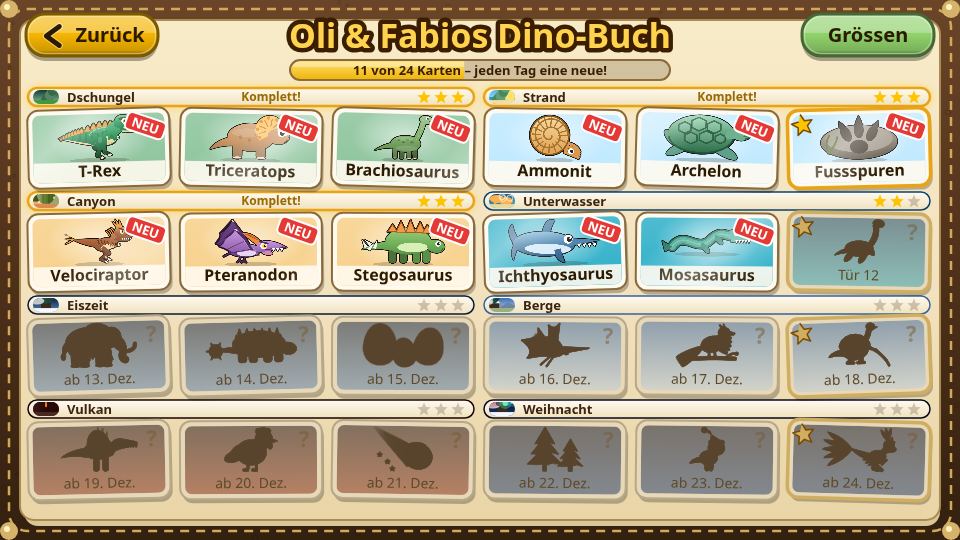
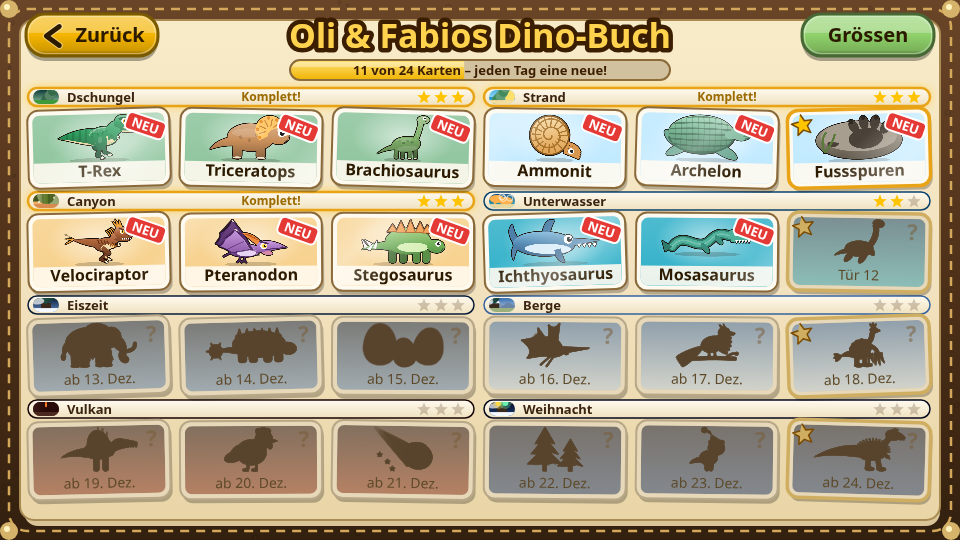
Dino-Buch: anatomically corrected card art and a voice for every card
- Redraw Therizinosaurus (upright, arms hanging with claws pointing down)
  and Sinosauropteryx (ginger fuzz, ringed tail)
- Fix T-Rex (no back plates), Brachiosaurus (longer front legs),
  Archelon (leathery ribbed shell), Pteranodon (no teeth), Fussspuren
  (sauropod print)
- Tapping a picture plays that card's own synthesised voice or sound
  (24 voices, added to the audio audit)

diff --git a/game.js b/game.js
@@ -167,7 +167,35 @@ const SFX = {
   fire() { noise(0.35, 0.3, 1600); tone(200, 0.3, 'sawtooth', 0.06, 90); },
   duck() { tone(420, 0.08, 'triangle', 0.06, 260); },
   power() { [523, 659, 784, 1047, 1319].forEach((f, i) => tone(f, 0.18, 'square', 0.05, null, i * 0.06)); },
+  voice(kind) { (VOICES[kind] || VOICES.rex)(); }, // the Dino-Buch: tap a picture and the animal answers in its own voice
 };
+const VOICES = { // every card has its own synthesised voice (or sound for things that are not animals)
+  rex() { duck(0.4, 0.45); noise(0.8, 0.4, 420); tone(95, 0.85, 'sawtooth', 0.15, 48, 0, { lp: 650, lpTo: 150, vib: 1 }); tone(140, 0.6, 'sawtooth', 0.08, 70, 0.05, { lp: 900 }); },
+  spino() { duck(0.5, 0.4); noise(0.7, 0.26, 2200, 0, 'bandpass'); tone(150, 0.7, 'sawtooth', 0.12, 85, 0, { lp: 1500, lpTo: 300 }); tone(210, 0.35, 'sawtooth', 0.07, 120, 0.4, { lp: 1800 }); },
+  trike() { tone(190, 0.55, 'sawtooth', 0.13, 135, 0, { lp: 900, vib: 1 }); tone(95, 0.55, 'triangle', 0.11, 78); tone(175, 0.5, 'sawtooth', 0.12, 120, 0.4, { lp: 800, vib: 1 }); tone(88, 0.5, 'triangle', 0.1, 70, 0.4); },
+  sauro() { tone(70, 1.5, 'sine', 0.1, 112, 0, { vib: 1, att: 0.25 }); tone(140, 1.3, 'triangle', 0.045, 100, 0.1, { vib: 1, lp: 520, att: 0.25 }); tone(210, 1.1, 'sine', 0.02, 150, 0.2, { att: 0.3 }); tone(112, 0.7, 'sine', 0.08, 60, 1.0); },
+  raptor() { for (let i = 0; i < 3; i++) tone(900 + i * 170, 0.1, 'square', 0.055, 1700 + i * 170, i * 0.11, { lp: 3600 }); noise(0.35, 0.12, 4800, 0, 'highpass'); tone(1300, 0.28, 'sawtooth', 0.05, 700, 0.38, { lp: 3000 }); },
+  ptero() { tone(1100, 0.38, 'sawtooth', 0.075, 2500, 0, { lp: 4200, vib: 1 }); tone(1500, 0.3, 'sawtooth', 0.04, 3000, 0.04); tone(1250, 0.26, 'sawtooth', 0.06, 2200, 0.46, { lp: 4000 }); noise(0.15, 0.08, 5000, 0.02, 'highpass'); },
+  quetz() { duck(0.6, 0.3); tone(560, 0.7, 'sawtooth', 0.1, 1500, 0, { lp: 2600, vib: 1 }); tone(280, 0.7, 'sawtooth', 0.06, 700, 0, { lp: 1500 }); noise(0.4, 0.14, 3000, 0.05, 'bandpass'); tone(900, 0.3, 'sawtooth', 0.06, 500, 0.7, { lp: 2400 }); },
+  stego() { tone(85, 0.26, 'square', 0.12, 55, 0, { lp: 320 }); noise(0.2, 0.22, 520); tone(78, 0.28, 'square', 0.11, 50, 0.34, { lp: 300 }); noise(0.22, 0.2, 480, 0.34); },
+  mammoth() { duck(0.55, 0.5); tone(380, 0.95, 'sawtooth', 0.12, 640, 0, { att: 0.07, lp: 2300, vib: 1 }); tone(380, 0.95, 'square', 0.04, 640, 0, { lp: 1500 }); noise(0.5, 0.12, 1300); tone(520, 0.45, 'sawtooth', 0.1, 300, 0.75, { lp: 2000 }); },
+  anky() { noise(0.28, 0.32, 760); tone(100, 0.22, 'sine', 0.15, 58); tone(70, 0.28, 'square', 0.13, 38, 0.4); noise(0.22, 0.3, 320, 0.4); for (let i = 0; i < 4; i++) noise(0.03, 0.12, 3800, 0.62 + i * 0.05, 'highpass'); },
+  ichthyo() { tone(2200, 0.26, 'sine', 0.07, 3300); tone(3100, 0.22, 'sine', 0.06, 2000, 0.28); for (let i = 0; i < 5; i++) noise(0.015, 0.13, 4600, 0.58 + i * 0.05, 'highpass'); },
+  mosa() { duck(0.6, 0.3); tone(75, 0.75, 'sawtooth', 0.12, 52, 0, { lp: 320, vib: 1 }); noise(0.5, 0.2, 420); for (let i = 0; i < 4; i++) { const f = 300 + (i * 190) % 400; tone(f, 0.08, 'sine', 0.07, f * 1.8, 0.35 + i * 0.07); } },
+  plesio() { tone(260, 1.15, 'sine', 0.08, 430, 0, { vib: 1, att: 0.15 }); tone(410, 0.95, 'sine', 0.06, 230, 0.22, { att: 0.1, vib: 1 }); for (let i = 0; i < 3; i++) { const f = 500 + i * 180; tone(f, 0.07, 'sine', 0.06, f * 1.8, 0.9 + i * 0.06); } },
+  archelon() { noise(0.55, 0.2, 950); tone(130, 0.5, 'triangle', 0.1, 95, 0.05, { lp: 520 }); noise(0.4, 0.14, 700, 0.5); tone(110, 0.3, 'triangle', 0.09, 80, 0.55, { lp: 400 }); },
+  ammonite() { for (let i = 0; i < 6; i++) { const f = 450 + (i * 173) % 500; tone(f, 0.07, 'sine', 0.07, f * 1.8, i * 0.07); } tone(300, 0.06, 'square', 0.06, 150, 0.55); tone(260, 0.06, 'square', 0.06, 130, 0.65); },
+  archaeo() { for (let i = 0; i < 4; i++) tone(2300 + i * 120, 0.07, 'sine', 0.075, 3500, i * 0.11); noise(0.2, 0.07, 6000, 0.5, 'highpass'); tone(1900, 0.2, 'sawtooth', 0.04, 1500, 0.5, { lp: 3000 }); },
+  theriz() { tone(150, 0.75, 'triangle', 0.13, 104, 0, { vib: 1, lp: 720 }); tone(110, 0.55, 'sawtooth', 0.07, 78, 0.15, { lp: 420 }); for (let i = 0; i < 3; i++) noise(0.025, 0.2, 4200, 0.75 + i * 0.09, 'highpass'); },
+  chicken() { for (let i = 0; i < 3; i++) { tone(540 - i * 40, 0.09, 'square', 0.07, 380, i * 0.15, { lp: 1900 }); noise(0.04, 0.06, 2000, i * 0.15, 'highpass'); } tone(430, 0.34, 'sawtooth', 0.08, 780, 0.55, { lp: 2300, vib: 1 }); },
+  polar() { tone(540, 0.3, 'sawtooth', 0.09, 300, 0, { lp: 2100 }); tone(800, 0.2, 'triangle', 0.05, 420, 0.04); tone(480, 0.2, 'sawtooth', 0.08, 280, 0.34, { lp: 1900 }); },
+  feather() { for (let i = 0; i < 6; i++) tone(1900 + (i % 2) * 450, 0.05, 'sine', 0.065, 2700, i * 0.065); noise(0.3, 0.09, 6500, 0, 'highpass'); },
+  steps() { for (let i = 0; i < 3; i++) { tone(95, 0.24, 'sine', 0.22, 42, i * 0.34); noise(0.2, 0.32, 270, i * 0.34); } },
+  eggs() { noise(0.05, 0.3, 3600, 0, 'highpass'); tone(900, 0.07, 'triangle', 0.09, 500); noise(0.05, 0.3, 3600, 0.22, 'highpass'); tone(840, 0.07, 'triangle', 0.09, 460, 0.22); tone(1500, 0.14, 'sine', 0.1, 2300, 0.6); tone(1700, 0.12, 'sine', 0.08, 2500, 0.78); },
+  meteor() { noise(0.7, 0.2, 3200); tone(900, 0.6, 'sawtooth', 0.04, 120, 0, { lp: 2600 }); duck(0.4, 0.7); tone(70, 0.7, 'sine', 0.2, 28, 0.58); noise(0.55, 0.26, 300, 0.58); },
+  trees() { noise(1.0, 0.15, 900); noise(1.0, 0.1, 1700, 0.15); tone(160, 0.5, 'triangle', 0.05, 140, 0.1, { lp: 400 }); [1568, 1976, 2349, 1976].forEach((f, i) => tone(f, 0.3, 'sine', 0.05, null, 0.5 + i * 0.1)); },
+};
+const VOICE_OF = ['rex', 'trike', 'sauro', 'ammonite', 'archelon', 'steps', 'raptor', 'ptero', 'stego', 'ichthyo', 'mosa', 'plesio', 'mammoth', 'anky', 'eggs', 'quetz', 'archaeo', 'theriz', 'spino', 'chicken', 'meteor', 'trees', 'polar', 'feather']; // FACTS order
 function fanNotes(root, seq) { // [semitones, start, length = 0.2]: a bright brass-like fanfare
   for (const [n, t, len = 0.2] of seq) { tone(root * 2 * Math.pow(2, n / 12), len, 'square', 0.04, null, t); tone(root * Math.pow(2, n / 12), len, 'triangle', 0.08, null, t); }
 }
@@ -1014,7 +1042,7 @@ function drawRex(x, y, s, ph, jaw, o = {}) {
   // dorsal plates: amber rounded fins that follow the spine
   ctx.fillStyle = plate; ctx.strokeStyle = shade(plate, 0.6); ctx.lineWidth = 1.5;
   const bz = t => { const u = 1 - t; return [u * u * u * -14 + 3 * u * u * t * -60 + 3 * u * t * t * -100 + t * t * t * -132, u * u * u * -90 + 3 * u * u * t * -92 + 3 * u * t * t * -80 + t * t * t * (-58 + tw)]; };
-  [[30, -101, 8], [14, -99, 9.5], [-4, -96, 10.5], [-22, -92, 10], [-40, -87, 9], ...[[0.34, 8], [0.42, 7.4], [0.5, 6.8], [0.58, 6.1], [0.66, 5.4], [0.74, 4.7], [0.82, 4], [0.9, 3.2]].map(([t, z]) => { const [qx, qy] = bz(t); return [qx, qy + 5.5, z, true]; })].forEach(([px, py, sz, tl], i) => { const ty = py + (tl ? 0 : px < -50 ? tw * 0.4 : 0) + Math.sin(ph * 0.5 - 0.5 + i * 0.4) * 0.8; ctx.beginPath(); ctx.moveTo(px - sz * 0.9, ty + 5); ctx.quadraticCurveTo(px - sz * 0.5, ty - sz * 1.2, px + sz * 0.2, ty - sz * 1.45); ctx.quadraticCurveTo(px + sz * 0.8, ty - sz * 0.6, px + sz * 0.9, ty + 5); ctx.closePath(); ctx.fill(); ctx.stroke(); });
+  (o.noPlates ? [] : [[30, -101, 8], [14, -99, 9.5], [-4, -96, 10.5], [-22, -92, 10], [-40, -87, 9], ...[[0.34, 8], [0.42, 7.4], [0.5, 6.8], [0.58, 6.1], [0.66, 5.4], [0.74, 4.7], [0.82, 4], [0.9, 3.2]].map(([t, z]) => { const [qx, qy] = bz(t); return [qx, qy + 5.5, z, true]; })]).forEach(([px, py, sz, tl], i) => { const ty = py + (tl ? 0 : px < -50 ? tw * 0.4 : 0) + Math.sin(ph * 0.5 - 0.5 + i * 0.4) * 0.8; ctx.beginPath(); ctx.moveTo(px - sz * 0.9, ty + 5); ctx.quadraticCurveTo(px - sz * 0.5, ty - sz * 1.2, px + sz * 0.2, ty - sz * 1.45); ctx.quadraticCurveTo(px + sz * 0.8, ty - sz * 0.6, px + sz * 0.9, ty + 5); ctx.closePath(); ctx.fill(); ctx.stroke(); });
   // torso + chest + belly
   ell(4, -66, 46, 29, -0.18, body);
   ell(24, -68, 28, 28, 0, body);
@@ -1154,7 +1182,7 @@ function drawPtero(x, y, s, ph, flip, o = {}) {
   ell(33, 3.4, 8, 3.2, 0.15, '#d98aa8');
   ctx.fillStyle = vgrad(-14, 4, light, mid); ctx.beginPath(); ctx.moveTo(18, -9); ctx.bezierCurveTo(26, -17, 44, -15, 62, -4); ctx.bezierCurveTo(46, -2, 32, 3, 18, 2); ctx.closePath(); ctx.fill();
   ctx.strokeStyle = dark; ctx.lineWidth = 1.4; ctx.beginPath(); ctx.moveTo(30, -1); ctx.quadraticCurveTo(46, -3, 60, -4); ctx.stroke();
-  ctx.fillStyle = '#fff'; for (let i = 0; i < 3; i++) { ctx.beginPath(); ctx.moveTo(40 + i * 6, -3); ctx.lineTo(42.4 + i * 6, 1.4); ctx.lineTo(44.8 + i * 6, -3.2); ctx.fill(); }
+  if (!o.noTeeth) { ctx.fillStyle = '#fff'; for (let i = 0; i < 3; i++) { ctx.beginPath(); ctx.moveTo(40 + i * 6, -3); ctx.lineTo(42.4 + i * 6, 1.4); ctx.lineTo(44.8 + i * 6, -3.2); ctx.fill(); } }
   circle(28, -6.5, 4.8, '#fff'); circle(29, -6.5, 3.4, '#ffd23a'); circle(29.8, -6.4, 1.8, '#17100a'); circle(30.2, -7.6, 0.8, '#fff');
   ctx.strokeStyle = dark; ctx.lineWidth = 2.4; ctx.beginPath(); ctx.moveTo(22, -13); ctx.lineTo(34, -10); ctx.stroke();
   ctx.strokeStyle = 'rgba(150,50,10,.55)'; ctx.lineWidth = 1.2; ctx.beginPath(); for (let i = 0; i < 3; i++) { ctx.moveTo(20 - i * 5, -15 - i * 3.4); ctx.lineTo(8 - i * 3, -21 - i * 1.4); } ctx.stroke(); circle(55, -6, 0.9, 'rgba(0,0,0,.45)');
@@ -1253,11 +1281,12 @@ function drawChili(x, y, s, ph, flip) {
   ctx.strokeStyle = 'rgba(255,245,235,.85)'; ctx.lineWidth = 0.8; ctx.beginPath(); ctx.moveTo(26, -20); ctx.lineTo(37, -24); ctx.moveTo(26, -20); ctx.lineTo(38, -19); ctx.moveTo(26, -19); ctx.lineTo(36, -14); ctx.stroke();
   ctx.restore();
 }
-function drawLongneck(x, y, s, c0, ph, flip) {
+function drawLongneck(x, y, s, c0, ph, flip, o = {}) {
   ctx.save(); ctx.translate(x, y); ctx.scale(flip ? -s : s, s);
   const col = vgrad(-160, 0, shade(c0, 1.3), c0, shade(c0, 0.68));
   const dark = 'rgba(0,0,0,.22)';
-  for (const lx of [-38, -14, 14, 36]) { rr(lx - 7, -45, 15, 45, 6); ctx.fillStyle = col; ctx.fill(); rr(lx - 7, -45, 15, 45, 6); ctx.fillStyle = (lx === -14 || lx === 36) ? dark : 'rgba(0,0,0,0)'; ctx.fill(); }
+  for (const lx of [-38, -14, 14, 36]) { const ext = o.tall && lx > 0 ? 14 : 0; rr(lx - 7, -45 - ext, 15, 45 + ext, 6); ctx.fillStyle = col; ctx.fill(); rr(lx - 7, -45 - ext, 15, 45 + ext, 6); ctx.fillStyle = (lx === -14 || lx === 36) ? dark : 'rgba(0,0,0,0)'; ctx.fill(); }
+  if (o.tall) { ctx.save(); ctx.translate(-8, -52); ctx.rotate(-0.1); ctx.translate(8, 52); } // front legs longer than the hind legs: the back slopes down to the tail
   ctx.fillStyle = col; ctx.beginPath(); ctx.moveTo(-45, -60); ctx.quadraticCurveTo(-90, -50, -115, -28); ctx.quadraticCurveTo(-80, -40, -45, -40); ctx.fill();
   ell(0, -56, 55, 30, 0, col);
   ctx.strokeStyle = col; ctx.lineWidth = 20; ctx.lineCap = 'round'; ctx.beginPath(); ctx.moveTo(35, -66); ctx.quadraticCurveTo(58, -110, 62 + Math.sin(ph) * 3, -140); ctx.stroke();
@@ -1269,6 +1298,7 @@ function drawLongneck(x, y, s, c0, ph, flip) {
   circle(79.6 + Math.sin(ph) * 3, -153, 1.5, '#fff'); ell(84 + Math.sin(ph) * 3, -142, 4, 2, 0, 'rgba(255,120,140,.4)');
   circle(90 + Math.sin(ph) * 3, -149, 1.3, 'rgba(0,0,0,.45)'); ctx.strokeStyle = 'rgba(0,0,0,.35)'; ctx.lineWidth = 1.6; ctx.beginPath(); ctx.moveTo(74 + Math.sin(ph) * 3, -159); ctx.quadraticCurveTo(79 + Math.sin(ph) * 3, -161.5, 83 + Math.sin(ph) * 3, -158.5); ctx.stroke();
   ctx.fillStyle = 'rgba(255,255,255,.3)'; for (let i = 0; i < 6; i++) { const u = i / 5; circle(38 + (62 - 38) * u + Math.sin(u * 3) * 6, -72 - 70 * u, 2.2 - u * 0.5, ctx.fillStyle); }
+  if (o.tall) ctx.restore();
   ctx.fillStyle = '#efe6d2'; for (const lx of [-38, -14, 14, 36]) { ctx.beginPath(); ctx.ellipse(lx, -2, 6, 2.6, 0, Math.PI, 0); ctx.fill(); }
   ctx.restore();
 }
@@ -5238,14 +5268,20 @@ function drawMeteor(x, y, s) {
   for (const [dx, dy] of [[-60, -20], [-76, -34], [-50, -6]]) drawStar(dx, dy, 6, '#ffd34d');
   ctx.restore();
 }
-function drawFeathered(x, y, s) { // a small feathered dinosaur: tail fan, wing feathers on the arm and a crest
-  ctx.save(); ctx.translate(x, y); ctx.scale(s * 1.7, s * 1.7); ctx.translate(-4, 0); ctx.lineCap = 'round';
-  const cols = ['#3fa9f5', '#f2a43a', '#e84a6f', '#f2d03a', '#6bd16b'];
-  const fea = (px, py, an, len, wd, c) => { ctx.save(); ctx.translate(px, py); ctx.rotate(an); ctx.fillStyle = vgrad(-wd, wd, shade(c, 1.25), c); ctx.beginPath(); ctx.moveTo(0, 0); ctx.quadraticCurveTo(len * 0.5, -wd, len, 0); ctx.quadraticCurveTo(len * 0.5, wd, 0, 0); ctx.fill(); ctx.strokeStyle = 'rgba(0,0,0,.3)'; ctx.lineWidth = 1; ctx.beginPath(); ctx.moveTo(2, 0); ctx.lineTo(len * 0.92, 0); ctx.stroke(); ctx.restore(); };
-  for (let i = 0; i < 5; i++) fea(-38, -31, Math.PI - 0.62 + i * 0.3, 46, 8, cols[i]); // tail fan
-  drawCompy(0, 0, 1, 0.4, false, { tone: ['#8aeed0', '#3fb59a', '#1f7a66', '#0f4a3e'] });
-  for (let i = 0; i < 5; i++) fea(9, -23, Math.PI - 0.05 - i * 0.2, 34 - i * 2, 6, cols[(i + 2) % 5]); // wing feathers
-  for (let i = 0; i < 3; i++) fea(16, -45, -2.15 + i * 0.4, 20, 4.5, cols[(i * 2) % 5]); // crest
+function drawFeathered(x, y, s) { // Sinosauropteryx: ginger fuzz all over, pale belly, very long tail with dark rings, short arms
+  ctx.save(); ctx.translate(x, y); ctx.scale(s * 1.45, s * 1.45); ctx.lineCap = 'round'; ctx.lineJoin = 'round';
+  const fur = vgrad(-60, 0, '#f0a550', '#d9822b', '#9a5416'), ring = '#fbead0';
+  ctx.strokeStyle = '#7a4412'; ctx.lineWidth = 8; ctx.beginPath(); ctx.moveTo(-6, -22); ctx.lineTo(-8, -4); ctx.moveTo(10, -22); ctx.lineTo(13, -4); ctx.stroke();
+  for (const fx of [-8, 13]) { ell(fx + 4, -2, 8, 3.4, 0, '#6a3a10'); }
+  const tail = new Path2D(); tail.moveTo(-14, -42); tail.bezierCurveTo(-44, -46, -76, -38, -104, -20); tail.bezierCurveTo(-76, -28, -44, -24, -14, -22); tail.closePath(); // long tail
+  ctx.fillStyle = fur; ctx.fill(tail); ctx.save(); ctx.clip(tail); ctx.fillStyle = ring; for (let i = 0; i < 8; i++) { ctx.beginPath(); ctx.moveTo(-26 - i * 10.5, -60); ctx.lineTo(-20 - i * 10.5, -60); ctx.lineTo(-14 - i * 10.5, -10); ctx.lineTo(-20 - i * 10.5, -10); ctx.fill(); } ctx.restore();
+  ell(0, -34, 26, 17, -0.15, fur); ell(7, -28, 18, 8.5, -0.1, '#fbead0');
+  ctx.strokeStyle = '#f3b970'; ctx.lineWidth = 1.8; for (let i = 0; i < 16; i++) { const a = -2.9 + i * 0.2, ex = Math.cos(a) * 25, ey = -34 + Math.sin(a) * 16; ctx.beginPath(); ctx.moveTo(ex, ey); ctx.lineTo(ex + Math.cos(a - 0.3) * 6, ey + Math.sin(a - 0.3) * 6); ctx.stroke(); } // fuzz
+  ctx.strokeStyle = '#d9822b'; ctx.lineWidth = 9; ctx.beginPath(); ctx.moveTo(18, -42); ctx.quadraticCurveTo(26, -52, 30, -60); ctx.stroke();
+  ell(36, -63, 13, 9, 0.18, fur); ctx.fillStyle = '#d9822b'; ctx.beginPath(); ctx.moveTo(44, -69); ctx.quadraticCurveTo(56, -64, 58, -58); ctx.lineTo(44, -56); ctx.fill();
+  ctx.fillStyle = '#fff'; for (let i = 0; i < 3; i++) { ctx.beginPath(); ctx.moveTo(47 + i * 3.4, -57.6); ctx.lineTo(48.6 + i * 3.4, -54); ctx.lineTo(50.2 + i * 3.4, -57.4); ctx.fill(); }
+  circle(40, -66, 4.4, '#fff'); circle(41, -66, 2.6, '#222'); circle(41.8, -67, 0.9, '#fff'); ctx.strokeStyle = '#7a4412'; ctx.lineWidth = 1.6; ctx.beginPath(); ctx.moveTo(35, -72); ctx.quadraticCurveTo(40, -75, 45, -72); ctx.stroke();
+  ctx.strokeStyle = '#a85e1a'; ctx.lineWidth = 5; ctx.beginPath(); ctx.moveTo(18, -34); ctx.lineTo(27, -24); ctx.stroke(); ctx.strokeStyle = '#fbead0'; ctx.lineWidth = 1.6; ctx.beginPath(); ctx.moveTo(27, -24); ctx.lineTo(31, -21); ctx.moveTo(27, -24); ctx.lineTo(30, -26); ctx.stroke(); // short arm
   ctx.restore();
 }
 function drawAmmonite(x, y, s) {
@@ -5260,20 +5296,23 @@ function drawArchelon(x, y, s) {
   ctx.save(); ctx.translate(x, y); ctx.scale(s, s); ctx.lineJoin = 'round';
   ctx.fillStyle = '#5fa08a'; ctx.beginPath(); ctx.ellipse(-34, -9, 22, 7, -0.45, 0, 7); ctx.fill(); ctx.beginPath(); ctx.ellipse(34, -8, 26, 8, 0.5, 0, 7); ctx.fill(); ctx.beginPath(); ctx.ellipse(-48, -26, 14, 6, 0.9, 0, 7); ctx.fill(); // flippers
   ell(0, -32, 52, 30, 0, vgrad(-62, -2, '#a0d8b8', '#5aa078', '#2f6a4a'));
-  ctx.strokeStyle = 'rgba(20,60,40,.6)'; ctx.lineWidth = 2.4; ctx.fillStyle = 'rgba(255,255,255,.12)';
-  const hex = (cx, cy, r) => { ctx.beginPath(); for (let k = 0; k < 6; k++) { const a = k / 6 * Math.PI * 2 + 0.52; ctx.lineTo(cx + Math.cos(a) * r, cy + Math.sin(a) * r * 0.82); } ctx.closePath(); ctx.fill(); ctx.stroke(); };
-  for (const [px, py, r] of [[-26, -42, 11], [-4, -48, 13], [20, -44, 12], [-16, -26, 11], [8, -28, 12], [30, -26, 9]]) hex(px, py, r); // scutes
+  ctx.save(); ctx.beginPath(); ctx.ellipse(0, -32, 51, 29, 0, 0, 7); ctx.clip(); // leathery shell: seven long ridges and fine cross ribs, no hard plates
+  ctx.strokeStyle = 'rgba(20,60,40,.55)'; ctx.lineWidth = 2.6; for (let k = -3; k <= 3; k++) { ctx.beginPath(); ctx.moveTo(-50, -32 + k * 7.5); ctx.quadraticCurveTo(0, -32 + k * 11, 50, -32 + k * 7.5); ctx.stroke(); }
+  ctx.strokeStyle = 'rgba(20,60,40,.28)'; ctx.lineWidth = 1.4; for (let u = -42; u <= 42; u += 9) { ctx.beginPath(); ctx.moveTo(u, -62); ctx.quadraticCurveTo(u + 3, -32, u, -2); ctx.stroke(); }
+  ctx.restore();
   ctx.strokeStyle = 'rgba(30,80,56,.8)'; ctx.lineWidth = 3; ctx.beginPath(); ctx.ellipse(0, -30, 51, 27, 0, 0.1, Math.PI - 0.1); ctx.stroke(); // rim
   ctx.strokeStyle = '#6fb090'; ctx.lineWidth = 13; ctx.lineCap = 'round'; ctx.beginPath(); ctx.moveTo(44, -32); ctx.lineTo(56, -34); ctx.stroke();
   ell(62, -36, 16, 12, 0.05, '#6fb090'); ctx.fillStyle = '#3d7a5c'; ctx.beginPath(); ctx.moveTo(70, -40); ctx.quadraticCurveTo(82, -36, 76, -29); ctx.lineTo(66, -30); ctx.fill();
   circle(64, -41, 5, '#fff'); circle(65, -41, 2.8, '#222'); circle(65.8, -42, 1, '#fff'); ctx.strokeStyle = '#2f6a4a'; ctx.lineWidth = 2; ctx.beginPath(); ctx.arc(70, -32, 5, 0.2, 1.6); ctx.stroke();
   ctx.restore();
 }
-function drawFootprint(x, y, s) {
+function drawFootprint(x, y, s) { // a sauropod track: big round hind foot with blunt toe pads, small crescent front foot
   ctx.save(); ctx.translate(x, y); ctx.scale(s, s);
   ell(0, -22, 50, 22, 0, vgrad(-44, 0, '#b0a698', '#8a8070', '#5e564a')); ell(0, -26, 44, 17, 0, '#a89e90');
-  ctx.fillStyle = '#4a4238'; for (const [tx, ty, an] of [[-17, -33, -0.5], [0, -38, 0], [17, -33, 0.5]]) { ctx.save(); ctx.translate(tx, ty); ctx.rotate(an); ctx.beginPath(); ctx.ellipse(0, 0, 6.5, 11, 0, 0, 7); ctx.fill(); ctx.beginPath(); ctx.moveTo(-4, -10); ctx.lineTo(0, -19); ctx.lineTo(4, -10); ctx.fill(); ctx.restore(); }
-  ctx.beginPath(); ctx.ellipse(0, -16, 12, 9, 0, 0, 7); ctx.fill(); ctx.strokeStyle = '#5a7a3a'; ctx.lineWidth = 2.5; ctx.beginPath(); ctx.moveTo(-40, -8); ctx.quadraticCurveTo(-46, -22, -38, -32); ctx.moveTo(-40, -8); ctx.quadraticCurveTo(-30, -20, -28, -30); ctx.stroke();
+  ctx.fillStyle = '#4a4238'; ell(8, -24, 20, 12, -0.1, '#4a4238');
+  for (const [tx, ty, an] of [[-12, -38, -0.5], [0, -42, -0.15], [13, -42, 0.2], [25, -36, 0.65]]) { ctx.save(); ctx.translate(tx + 6, ty); ctx.rotate(an); ctx.beginPath(); ctx.ellipse(0, 0, 5.4, 8, 0, 0, 7); ctx.fill(); ctx.fillStyle = '#2e2820'; ctx.beginPath(); ctx.ellipse(0, -6, 2.6, 2.6, 0, 0, 7); ctx.fill(); ctx.fillStyle = '#4a4238'; ctx.restore(); }
+  ctx.beginPath(); ctx.ellipse(-30, -19, 7, 4.6, -0.2, 0.2, Math.PI * 1.2); ctx.fill();
+  ctx.strokeStyle = '#5a7a3a'; ctx.lineWidth = 2.5; ctx.beginPath(); ctx.moveTo(-40, -8); ctx.quadraticCurveTo(-46, -22, -38, -32); ctx.moveTo(-40, -8); ctx.quadraticCurveTo(-30, -20, -28, -30); ctx.stroke();
   ctx.restore();
 }
 function drawIchthyo(x, y, s) {
@@ -5329,27 +5368,49 @@ function drawArchaeo(x, y, s) {
   ctx.fillStyle = '#e8873a'; ctx.beginPath(); ctx.moveTo(22, -72); ctx.lineTo(18, -82); ctx.lineTo(28, -74); ctx.lineTo(28, -84); ctx.lineTo(34, -73); ctx.fill();
   circle(33, -65, 4.8, '#fff'); circle(34.2, -65, 2.8, '#222'); circle(35, -66.4, 1, '#fff'); ctx.restore();
 }
-function drawTheriz(x, y, s) {
-  ctx.save(); ctx.translate(x, y); ctx.scale(s, s); ctx.lineCap = 'round';
-  ctx.strokeStyle = '#8a5a3a'; ctx.lineWidth = 12; ctx.beginPath(); ctx.moveTo(-10, -22); ctx.lineTo(-12, -4); ctx.moveTo(12, -22); ctx.lineTo(14, -4); ctx.stroke(); ctx.lineWidth = 6; for (const fx of [-12, 14]) { ctx.beginPath(); ctx.moveTo(fx - 8, 0); ctx.lineTo(fx + 8, 0); ctx.stroke(); }
-  ctx.fillStyle = '#b07a52'; ctx.beginPath(); ctx.moveTo(-26, -34); ctx.quadraticCurveTo(-58, -30, -66, -14); ctx.quadraticCurveTo(-40, -22, -22, -14); ctx.fill();
-  ell(0, -36, 34, 29, -0.1, vgrad(-62, -10, '#e0a878', '#b07a52', '#7a4a2a')); ctx.fillStyle = '#c99062'; for (let i = 0; i < 8; i++) { const a = -2.9 + i * 0.36; ctx.beginPath(); ctx.ellipse(Math.cos(a) * 34, -36 + Math.sin(a) * 29, 9, 5.5, a + 1.57, 0, 7); ctx.fill(); } ell(2, -26, 22, 12, 0, 'rgba(255,236,210,.28)'); ctx.strokeStyle = '#f0c898'; ctx.lineWidth = 3; for (let i = 0; i < 6; i++) { ctx.beginPath(); ctx.moveTo(-18 + i * 7, -52); ctx.lineTo(-22 + i * 7, -40); ctx.stroke(); }
-  ctx.strokeStyle = '#b07a52'; ctx.lineWidth = 12; ctx.beginPath(); ctx.moveTo(20, -50); ctx.quadraticCurveTo(34, -62, 36, -82); ctx.stroke();
-  ell(40, -88, 11, 9, 0.2, '#b07a52'); ctx.fillStyle = '#f2c13a'; ctx.beginPath(); ctx.moveTo(48, -90); ctx.lineTo(58, -86); ctx.lineTo(48, -83); ctx.fill(); circle(41, -90, 3.6, '#fff'); circle(41.8, -90, 2, '#222');
-  ctx.strokeStyle = '#b07a52'; ctx.lineWidth = 7; ctx.beginPath(); ctx.moveTo(20, -42); ctx.lineTo(40, -34); ctx.stroke();
-  ctx.strokeStyle = '#f6efe0'; ctx.lineWidth = 4.2; for (const [dx, dy] of [[0, 0], [5, 6], [10, 11]]) { ctx.beginPath(); ctx.moveTo(40 + dx, -34 + dy * 0.2); ctx.quadraticCurveTo(66 + dx, -20 + dy, 78 + dx * 0.5, -2 + dy); ctx.stroke(); }
+function drawTheriz(x, y, s) { // upright pot-bellied biped: long neck, tiny beaked head, feathered body, arms hanging down with three huge claws
+  ctx.save(); ctx.translate(x, y); ctx.scale(s, s); ctx.lineCap = 'round'; ctx.lineJoin = 'round';
+  const claw = (x0, y0, x1, y1, w, col) => { const dx = x1 - x0, dy = y1 - y0, L = Math.hypot(dx, dy), nx = -dy / L, ny = dx / L, cx = (x0 + x1) / 2 + nx * L * 0.1, cy = (y0 + y1) / 2 + ny * L * 0.1;
+    ctx.beginPath(); ctx.moveTo(x0 + nx * w, y0 + ny * w); ctx.quadraticCurveTo(cx + nx * w * 0.45, cy + ny * w * 0.45, x1, y1); ctx.quadraticCurveTo(cx - nx * w * 0.45, cy - ny * w * 0.45, x0 - nx * w, y0 - ny * w); ctx.closePath(); ctx.fillStyle = col; ctx.fill(); ctx.strokeStyle = '#7a6a48'; ctx.lineWidth = 1.8; ctx.stroke(); };
+  const fur = vgrad(-90, -20, '#e3b184', '#b98258', '#8a5836');
+  // far arm, hanging behind the belly
+  ctx.strokeStyle = '#6f4528'; ctx.lineWidth = 8; ctx.beginPath(); ctx.moveTo(8, -66); ctx.quadraticCurveTo(22, -52, 30, -38); ctx.stroke();
+  claw(30, -38, 28, -8, 4.4, '#d8cdb6'); claw(36, -38, 42, -10, 4.2, '#d8cdb6');
+  // short feathered tail with a tuft
+  ctx.fillStyle = '#a8734c'; ctx.beginPath(); ctx.moveTo(-22, -50); ctx.quadraticCurveTo(-50, -48, -62, -32); ctx.quadraticCurveTo(-40, -34, -18, -28); ctx.fill();
+  for (const [a, c] of [[-0.7, '#e8803a'], [-0.2, '#f2a63a'], [0.35, '#e8803a']]) { ctx.save(); ctx.translate(-60, -33); ctx.rotate(Math.PI + a); ctx.fillStyle = c; ctx.beginPath(); ctx.ellipse(11, 0, 12, 4.2, 0, 0, 7); ctx.fill(); ctx.restore(); }
+  // columnar hind legs with feathery trousers and four-toed feet
+  ctx.strokeStyle = '#7a4a2a'; ctx.lineWidth = 13; ctx.beginPath(); ctx.moveTo(-10, -32); ctx.lineTo(-11, -7); ctx.moveTo(13, -32); ctx.lineTo(15, -7); ctx.stroke();
+  ctx.fillStyle = '#c99062'; for (const lx of [-10, 13]) { ctx.beginPath(); ctx.ellipse(lx, -34, 12, 9, 0, 0, 7); ctx.fill(); }
+  for (const fx of [-11, 15]) { ell(fx + 7, -3, 15, 5.5, 0, '#6a3d20'); ctx.strokeStyle = '#4a2a14'; ctx.lineWidth = 1.5; for (const tx of [4, 10, 16, 21]) { ctx.beginPath(); ctx.moveTo(fx + tx, -6); ctx.lineTo(fx + tx + 1, 0); ctx.stroke(); } }
+  // torso leaning forward: heavy belly, scalloped feathers
+  ctx.save(); ctx.translate(2, -54); ctx.rotate(-0.5); ell(0, 0, 33, 26, 0, fur);
+  ctx.fillStyle = '#d29a6a'; for (let i = 0; i < 12; i++) { const a = -3.0 + i * 0.5, ex = Math.cos(a) * 32, ey = Math.sin(a) * 25; ctx.beginPath(); ctx.ellipse(ex, ey, 8, 5, a + 1.57, 0, 7); ctx.fill(); }
+  ctx.restore();
+  ell(12, -46, 20, 17, 0, '#f0d4ae'); ctx.strokeStyle = '#c99a6a'; ctx.lineWidth = 2; for (let i = 0; i < 6; i++) { ctx.beginPath(); ctx.arc(4 + (i % 3) * 12, -52 + Math.floor(i / 3) * 12, 5, 0.3, 2.8); ctx.stroke(); }
+  // neck rising from the chest, small head with a horny beak
+  ctx.strokeStyle = '#b98258'; ctx.lineWidth = 14; ctx.beginPath(); ctx.moveTo(22, -70); ctx.quadraticCurveTo(38, -78, 40, -100); ctx.stroke();
+  ctx.strokeStyle = '#d9a577'; ctx.lineWidth = 4.5; ctx.beginPath(); ctx.moveTo(26, -72); ctx.quadraticCurveTo(39, -80, 41, -98); ctx.stroke();
+  ell(46, -112, 12, 9.5, 0.2, '#b98258');
+  ctx.fillStyle = '#f2c13a'; ctx.strokeStyle = '#a87a10'; ctx.lineWidth = 1.5; ctx.beginPath(); ctx.moveTo(54, -116); ctx.lineTo(66, -110); ctx.lineTo(54, -105); ctx.closePath(); ctx.fill(); ctx.stroke();
+  ctx.fillStyle = '#e8803a'; for (const [dx, dy, r] of [[-5, -13, -0.5], [0, -14, 0], [5, -12, 0.5]]) { ctx.save(); ctx.translate(44 + dx, -112 + dy); ctx.rotate(r); ctx.beginPath(); ctx.ellipse(0, -3, 2.4, 6.5, 0, 0, 7); ctx.fill(); ctx.restore(); }
+  circle(50, -115, 3.8, '#fff'); circle(51, -115, 2.2, '#222'); circle(51.8, -116, 0.9, '#fff');
+  // near arm: long, hanging down in front of the belly, ending in three huge sickle claws that point at the ground
+  ctx.strokeStyle = '#8f5d3c'; ctx.lineWidth = 10; ctx.beginPath(); ctx.moveTo(24, -68); ctx.quadraticCurveTo(50, -58, 56, -40); ctx.stroke();
+  ctx.strokeStyle = '#b98258'; ctx.lineWidth = 3.6; ctx.beginPath(); ctx.moveTo(26, -67); ctx.quadraticCurveTo(49, -58, 54, -42); ctx.stroke();
+  claw(52, -40, 48, -2, 6, '#fff8e6'); claw(58, -40, 62, -2, 6, '#fff8e6'); claw(64, -38, 76, -8, 5.4, '#fff8e6');
   ctx.restore();
 }
 const CARD_ART = [
   // [draw(x, y, s), width, height, offset x of the visual centre]  (calendar order, one per level)
-  [(x, y, s) => drawRex(x, y, s, 0.4, 0.05, { body: undefined }), 250, 150, -5],
+  [(x, y, s) => drawRex(x, y, s, 0.4, 0.05, { noPlates: true }), 250, 150, -5],
   [(x, y, s) => drawTrike(x, y, s, '#c98f5a', 0.4, false), 120, 70, 2],
-  [(x, y, s) => drawLongneck(x, y, s, '#7fb069', 0.4, false), 220, 168, -6],
+  [(x, y, s) => drawLongneck(x, y, s, '#7fb069', 0.4, false, { tall: true }), 220, 168, -6],
   [drawAmmonite, 90, 70, 2],
   [drawArchelon, 130, 62, 4],
   [drawFootprint, 120, 52, 0],
   [(x, y, s) => drawRaptor(x, y, s, 0.4, false, {}), 205, 105, -14],
-  [(x, y, s) => drawPtero(x, y - 22 * s, s, 1.0, false), 96, 66, 14],
+  [(x, y, s) => drawPtero(x, y - 22 * s, s, 1.0, false, { noTeeth: true }), 96, 66, 14],
   [drawStego, 160, 80, -12],
   [drawIchthyo, 150, 70, 8],
   [drawMosa, 190, 72, -8],
@@ -5723,7 +5784,7 @@ function drawBookDetail() {
     panel(46, 12, 868, 516);
     drawHabitat(wi, HX, HY, HW, HH); drawHeroDino(bookSel, HX, HY, HW, HH, animal); foil(HX, HY, HW, HH, 18, T);
     rr(HX, HY, HW, HH, 18); ctx.lineWidth = 4; ctx.strokeStyle = '#fffaf0'; ctx.stroke(); rr(HX - 2, HY - 2, HW + 4, HH + 4, 20); ctx.lineWidth = 2; ctx.strokeStyle = '#8a6a3a'; ctx.stroke();
-    if (!bookTapped) { ctx.globalAlpha *= 0.65 + 0.35 * Math.sin(T * 4); otxt(animal ? 'Tippe – er brüllt!' : 'Tippe aufs Bild!', HX + HW - 14, HY + HH - 21, 14, '#fff', 'rgba(0,0,0,.6)', 4, 'right'); ctx.globalAlpha = 0.4 + 0.6 * pu; }
+    if (!bookTapped) { ctx.globalAlpha *= 0.65 + 0.35 * Math.sin(T * 4); otxt(animal ? 'Tippe – er meldet sich!' : 'Tippe aufs Bild!', HX + HW - 14, HY + HH - 21, 14, '#fff', 'rgba(0,0,0,.6)', 4, 'right'); ctx.globalAlpha = 0.4 + 0.6 * pu; }
     { const wl = th.name; setFont(13); const pw = ctx.measureText(wl).width + 50; rr(HX + 10, HY + HH - 34, pw, 26, 13); ctx.fillStyle = 'rgba(255,250,235,.93)'; ctx.fill(); ctx.lineWidth = 1.5; ctx.strokeStyle = '#b8a070'; ctx.stroke(); ctx.save(); rr(HX + 14, HY + HH - 30, 28, 18, 4); ctx.clip(); drawThemeThumb(wi, HX + 14, HY + HH - 30, 28, 18); ctx.restore(); txt(wl, HX + 50, HY + HH - 21, 13, '#3b2410', 'left'); }
     if (BOSS_DAYS[bookSel + 1]) { rr(HX + HW - 112, HY + 10, 102, 24, 12); ctx.fillStyle = '#ffc400'; ctx.fill(); ctx.lineWidth = 2; ctx.strokeStyle = '#7a4a00'; ctx.stroke(); drawStar(HX + HW - 94, HY + 22, 8, '#fff3b0'); txt('Boss-Karte', HX + HW - 52, HY + 22, 12, '#3b1d00'); }
     drawSizeRuler(HX, 240, HW, 152, st, th, bookSel);
@@ -5741,7 +5802,7 @@ function drawBookDetail() {
     button('Schliessen', W / 2 - 110, 464, 220, 44, () => { bookSel = -1; }, { icon: icon('check'), size: 24 });
     ctx.restore();
     buttons.unshift({ x: 0, y: 0, w: W, h: H, cb: () => { bookSel = -1; } });
-    buttons.push({ x: HX, y: HY, w: HW, h: HH, silent: true, cb: () => { bookTapped = true; bookRoar.t = T; bookRoar.i = bookSel; if (animal) SFX.roar(); else SFX.sparkle(); } });
+    buttons.push({ x: HX, y: HY, w: HW, h: HH, silent: true, cb: () => { bookTapped = true; bookRoar.t = T; bookRoar.i = bookSel; SFX.voice(VOICE_OF[bookSel]); } });
     for (const dir of [-1, 1]) { // previous / next found card
       let j = bookSel; do { j = (j + dir + FACTS.length) % FACTS.length; } while (!save.lvDone[j] && j !== bookSel);
       if (j === bookSel) continue;
@@ -5945,5 +6006,5 @@ function frame(now) {
 requestAnimationFrame(frame);
 
 // debug hook for testing in the browser console
-window.__dino = { bookUnread, get mus() { return mus; }, useAudio(ctx) { AC = ctx; noiseBuf = null; buildAudioGraph(); mus.key = null; mus.trans = null; mus.saved = {}; mus.g = 1; mus.vt = 1; amb.wi = null; amb.node = null; amb.lvl = -1; }, musicTick, SFX, ambTick, ambEvent, AMB, SONGS, startSplash, get splash() { return splash; }, bossDmg, medalTotal, worldMedalsDone, chestFull, chestParty, get chestPartyT() { return chestPartyT; }, startDaily, dailyWorld, dayKey, get dialog() { return dialog; }, DAY_STORY, DAY_AFTER, launchLevel, finishLevel, fmt, cleanNick, boardAdd, boardQualifies, boardAll, endRun, get scene() { return scene; }, get doorOverlay() { return doorOverlay; }, get buttons() { return buttons; }, pitFall, get lowfx() { return LOWFX; }, set lowfx(v) { LOWFX = v; }, get G() { return G; }, get E() { return E; }, save, startLevel, startEnding, go, jump, roar, updatePlay, updateEnding, answer, openRiddle, retry, tapEgg, openGate, playTreasure, drawPlay, duckDown, duckUp, shootFire, drawShop, buildSong, dash, LEVELS, adventDay, openDoorGift, giftFor, clickDoor, skillsFor, FACTS, STECK, bookOpen(i) { bookSel = i; }, bookMode(m) { bookMode = m; lineLayout = null; lineScroll = lineTarget = 0; }, lineupScroll(v) { lineTarget = lineScroll = v; }, openBookCard, sheet(p) { sheetPage = p || 'hero'; scene = 'sheet'; } };
+window.__dino = { bookUnread, get mus() { return mus; }, useAudio(ctx) { AC = ctx; noiseBuf = null; buildAudioGraph(); mus.key = null; mus.trans = null; mus.saved = {}; mus.g = 1; mus.vt = 1; amb.wi = null; amb.node = null; amb.lvl = -1; }, musicTick, SFX, ambTick, ambEvent, AMB, SONGS, startSplash, get splash() { return splash; }, bossDmg, medalTotal, worldMedalsDone, chestFull, chestParty, get chestPartyT() { return chestPartyT; }, startDaily, dailyWorld, dayKey, get dialog() { return dialog; }, DAY_STORY, DAY_AFTER, launchLevel, finishLevel, fmt, cleanNick, boardAdd, boardQualifies, boardAll, endRun, get scene() { return scene; }, get doorOverlay() { return doorOverlay; }, get buttons() { return buttons; }, pitFall, get lowfx() { return LOWFX; }, set lowfx(v) { LOWFX = v; }, get G() { return G; }, get E() { return E; }, save, startLevel, startEnding, go, jump, roar, updatePlay, updateEnding, answer, openRiddle, retry, tapEgg, openGate, playTreasure, drawPlay, duckDown, duckUp, shootFire, drawShop, buildSong, dash, LEVELS, adventDay, openDoorGift, giftFor, clickDoor, skillsFor, FACTS, STECK, VOICE_OF, VOICES, cardSprite, bookOpen(i) { bookSel = i; }, bookMode(m) { bookMode = m; lineLayout = null; lineScroll = lineTarget = 0; }, lineupScroll(v) { lineTarget = lineScroll = v; }, openBookCard, sheet(p) { sheetPage = p || 'hero'; scene = 'sheet'; } };
 })();

diff --git a/tests/audioRender.js b/tests/audioRender.js
@@ -23,5 +23,5 @@ async function auditInPage(cfg) {
   return out;
 }
 const ALL_SONGS = ['map', '0', '1', '2', '3', '4', '5', '6', '7', 'ending', 'boss_crab', 'boss_kraken', 'boss_queen', 'boss_king'];
-const SFX_LIST = [['jump'], ['dash'], ['amber'], ['amberNote', [3]], ['egg'], ['hurt'], ['lose'], ['lowHeart'], ['right'], ['smash'], ['roar'], ['stomp'], ['land', [900]], ['heart'], ['bubble'], ['whoosh'], ['buy'], ['chirp'], ['sparkle'], ['victory', [false]], ['victory', [true]], ['power'], ['fire'], ['runeChime', [0]], ['runeChime', [2]], ['tabletThud'], ['riddleWin'], ['gateRumble']];
+const SFX_LIST = [['jump'], ['dash'], ['amber'], ['amberNote', [3]], ['egg'], ['hurt'], ['lose'], ['lowHeart'], ['right'], ['smash'], ['roar'], ['stomp'], ['land', [900]], ['heart'], ['bubble'], ['whoosh'], ['buy'], ['chirp'], ['sparkle'], ['victory', [false]], ['victory', [true]], ['power'], ['fire'], ['runeChime', [0]], ['runeChime', [2]], ['tabletThud'], ['riddleWin'], ['gateRumble'], ...['rex', 'spino', 'trike', 'sauro', 'raptor', 'ptero', 'quetz', 'stego', 'mammoth', 'anky', 'ichthyo', 'mosa', 'plesio', 'archelon', 'ammonite', 'archaeo', 'theriz', 'chicken', 'polar', 'feather', 'steps', 'eggs', 'meteor', 'trees'].map(k => ['voice', [k]])];
 module.exports = { auditInPage, ALL_SONGS, SFX_LIST };
